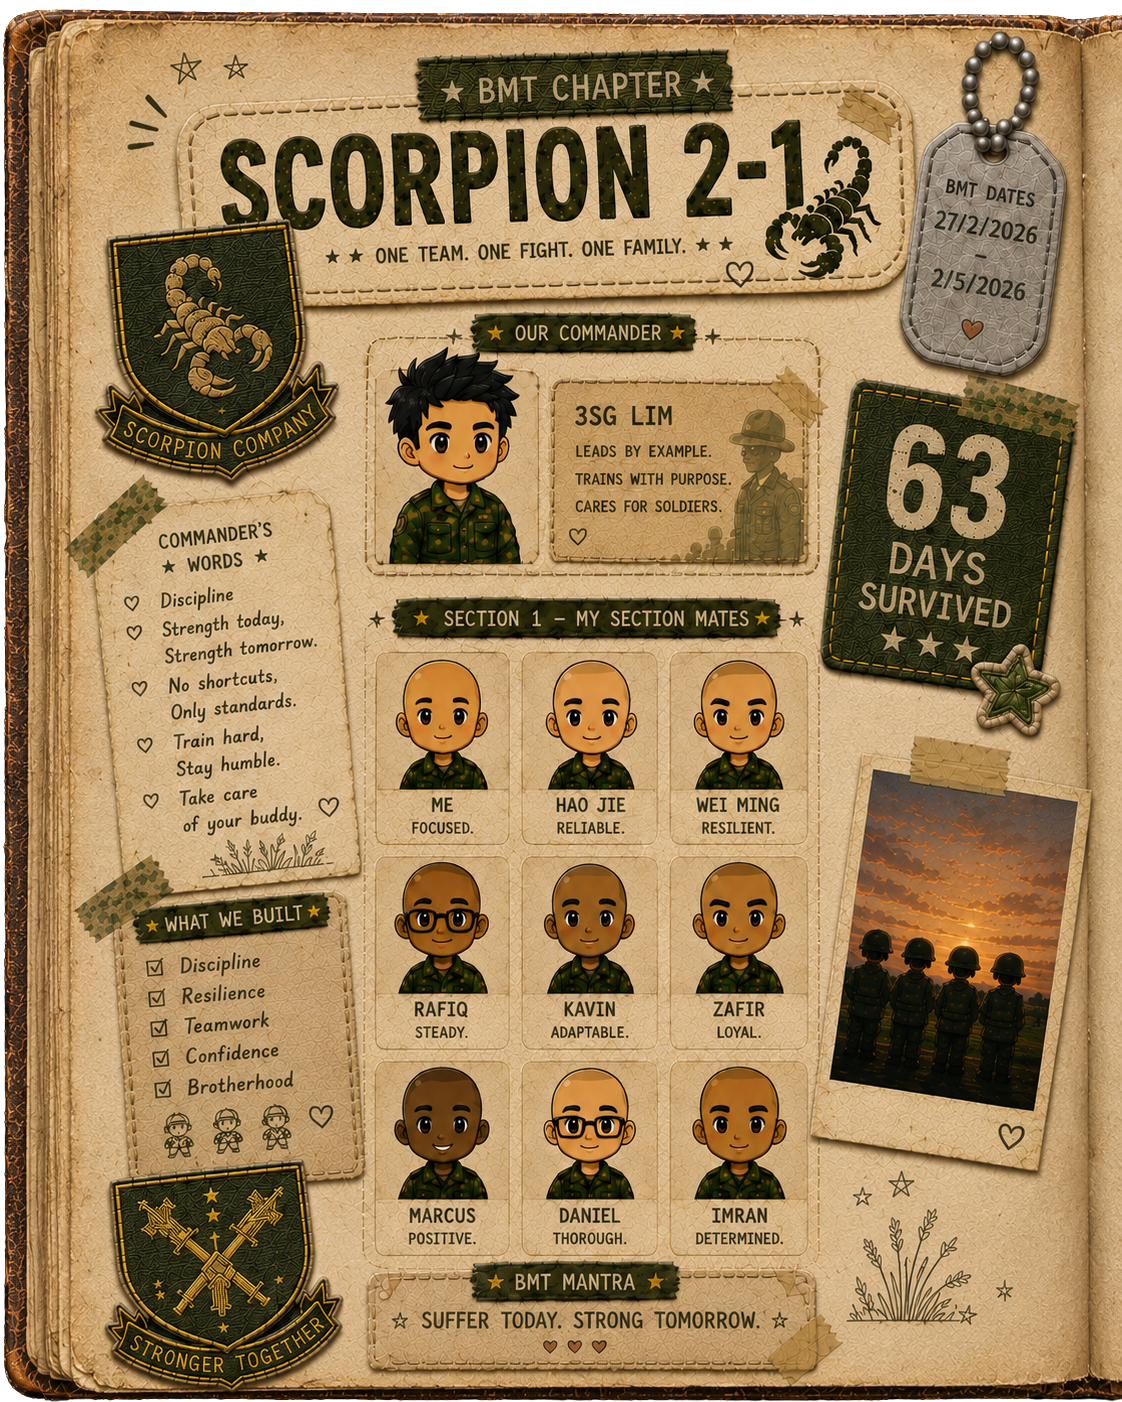
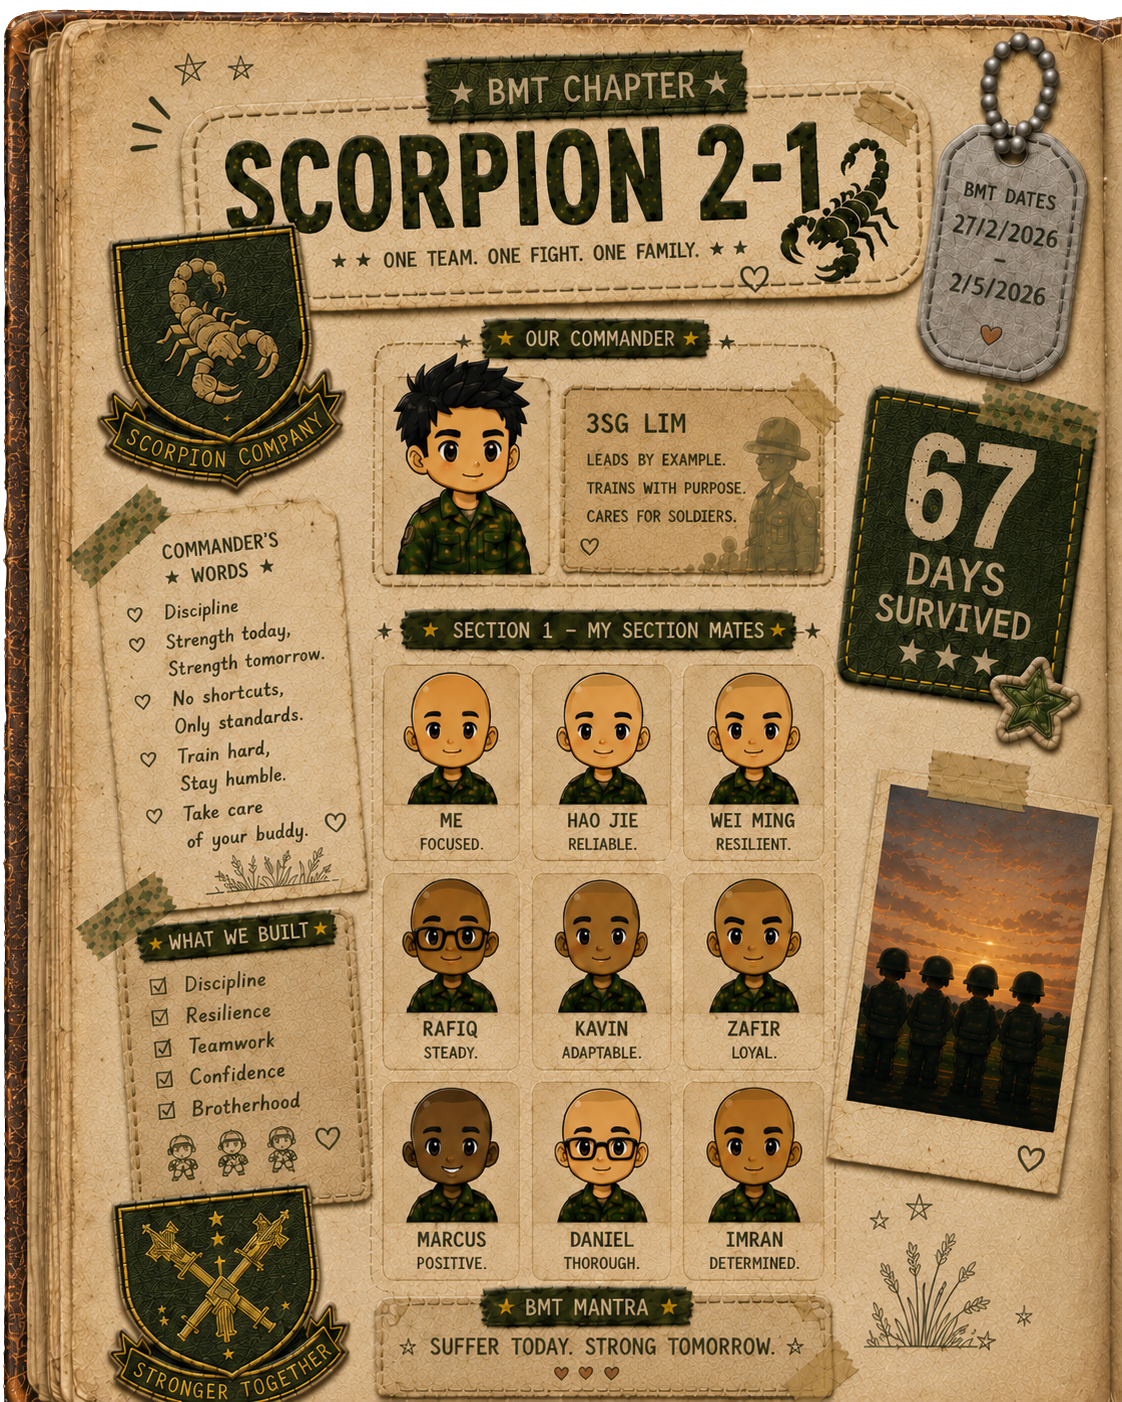
fix: 67

diff --git a/frontend/src/pages/JournalPage.jsx b/frontend/src/pages/JournalPage.jsx
@@ -337,7 +337,10 @@ const BmtChapterLeft = forwardRef(function BmtChapterLeft(_props, ref) {
       <img
         src="/assets/journal/bmt_chapter_left.png"
         alt="BMT Chapter Left"
-        style={{ position: "absolute", inset: 0, width: "100%", height: "99%", objectFit: "cover" }}
+        /* Image aspect (0.800) is wider than the page box, so cover would clip
+           the sides. Scaling to ~94% height lets the full width show (only ~1%
+           side crop) with a thin top/bottom margin that blends with the page. */
+        style={{ position: "absolute", left: 0, right: 0, top: "2%", width: "100%", height: "95%", objectFit: "cover" }}
       />
     </div>
   );
@@ -364,7 +367,9 @@ const BmtChapterRight = forwardRef(function BmtChapterRight({ userNote, commande
       <img
         src="/assets/journal/bmt_chapter_right.png"
         alt="BMT Chapter Right"
-        style={{ position: "absolute", inset: 0, width: "100%", height: "99%", objectFit: "cover" }}
+        /* See BMT left: scaled to ~94% height so the full width shows with
+           minimal side crop and a thin blending top/bottom margin. */
+        style={{ position: "absolute", left: 0, right: 0, top: "2%", width: "100%", height: "95%", objectFit: "cover" }}
       />
 
       {/* COMMANDER'S NOTES lined slot (bottom-left); lines ~ x:7%-36%, y:74%-88% */}
